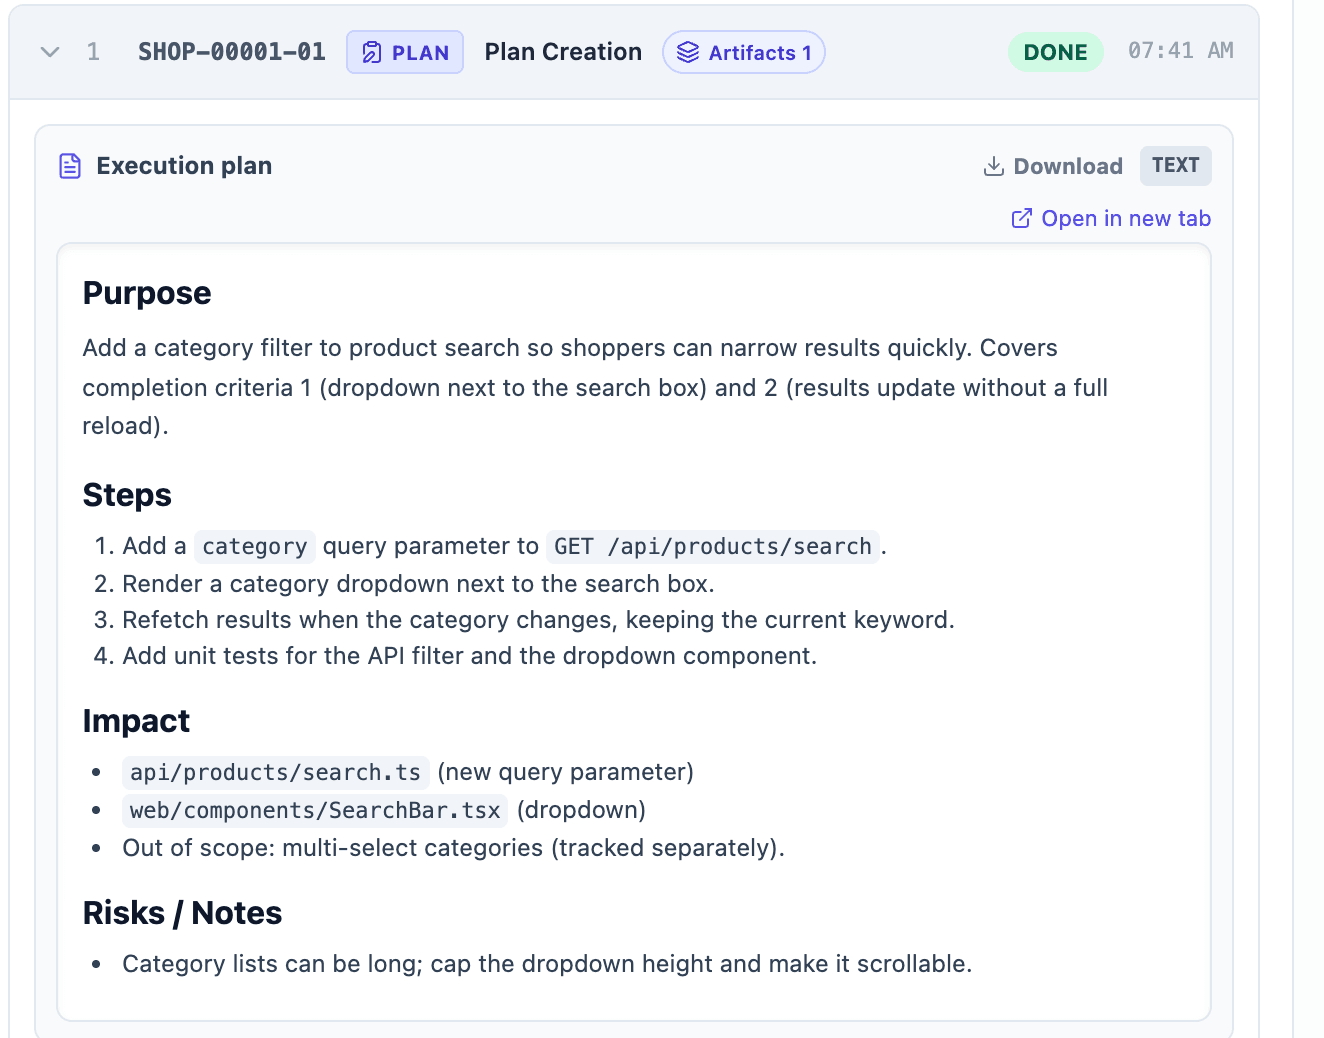
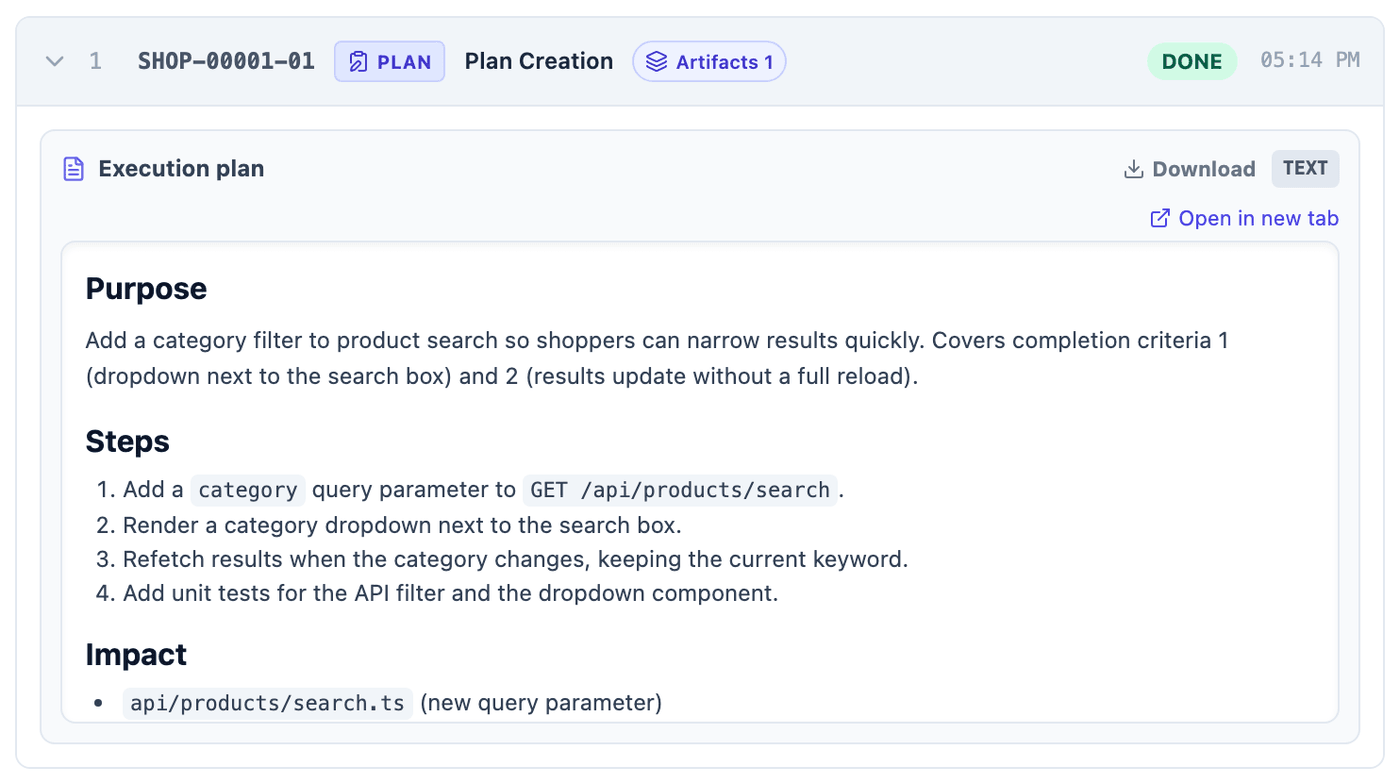
Drop dangling README reference from help, retake screenshots, unify HTML成果物 wording
- graph-engine help no longer points at a README "Configuration" section
  that does not exist.
- Retake execution-graph.png so the graph is not scaled down (no empty
  space above/below it) and the node list ends between rows, and crop
  artifact-preview.png to the node card so the neighbouring border is gone.
- Spell the Japanese tab name as HTML成果物 (no space) in README and in
  the noHtmlYet message, matching the UI tab label.

diff --git a/packages/core-go/cmd/graph-engine/main.go b/packages/core-go/cmd/graph-engine/main.go
@@ -378,7 +378,7 @@ Commands:
                                            loopback only unless you deliberately widen it, e.g.
                                            --host 0.0.0.0 on a network you trust.)
 
-User/team extension directories (see README.md "Configuration" section):
+User/team extension directories:
   GRAPH_USER_EXTENSIONS_DIR / userExtensionsDir   (default: $HOME/.graph-ops)
   GRAPH_TEAM_EXTENSIONS_DIR / teamExtensionsDir   (default: nearest ancestor .graph-ops/,
                                                    excluding $HOME/.graph-ops; a team root that is

diff --git a/README.md b/README.md
@@ -238,7 +238,7 @@ claude plugin update graph-ops@graph-ops
 
 - ノードをクリックすると成果物をプレビューできます。Markdown・Gherkin・HTML は整形して表示されます。
 - 成果物ごとに「別タブで開く」「ダウンロード」ができます。「成果物を一括ダウンロード」で、チケットのすべての成果物をまとめてダウンロードできます。
-- 「Gherkin 仕様」「HTML 成果物」「全成果物」タブには、チケット全体の成果物が種類ごとにまとまっています。
+- 「Gherkin 仕様」「HTML成果物」「全成果物」タブには、チケット全体の成果物が種類ごとにまとまっています。
 
 #### 承認と却下
 
